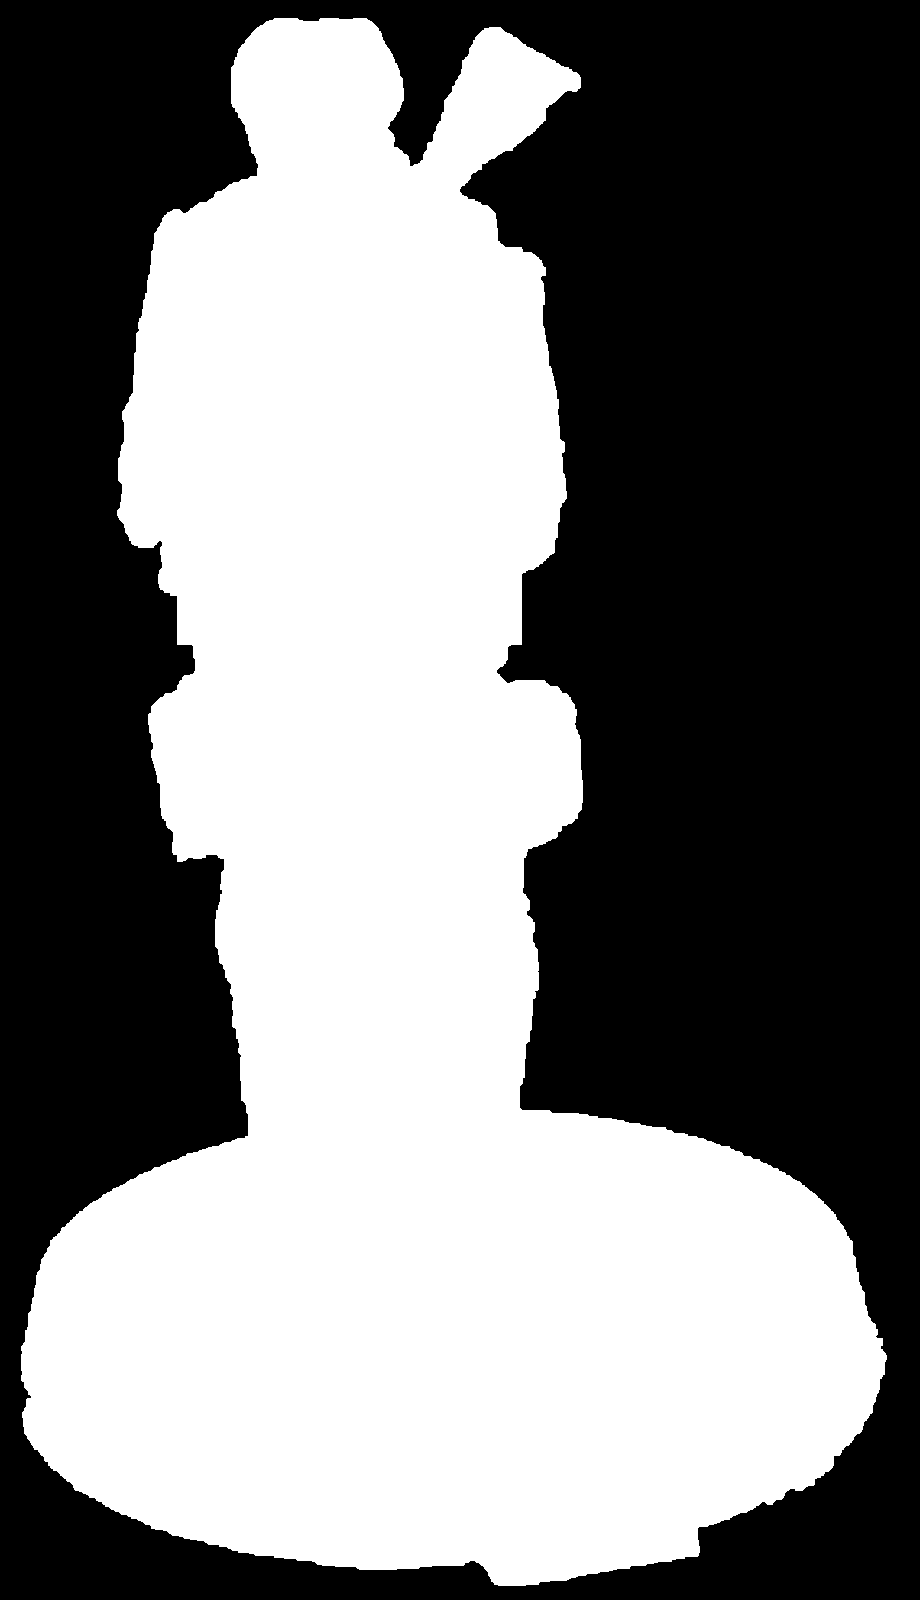
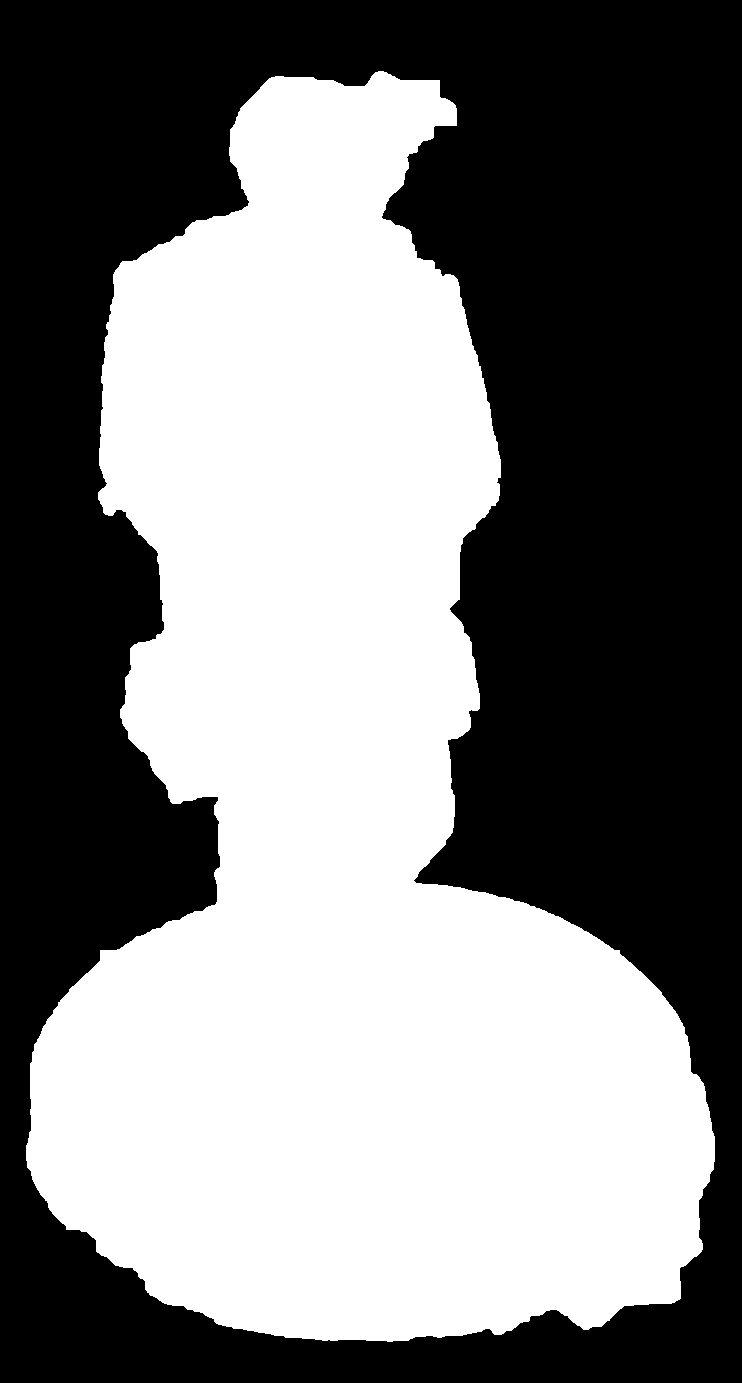
Flores: replace photo with Dan's new shot, re-map paints
Claude-Session: https://claude.ai/code/session_018xGy6bTQAa7MCQcV7PAPQL

diff --git a/tools/inputs/6-siege-flores/README.md b/tools/inputs/6-siege-flores/README.md
@@ -2,7 +2,7 @@ Inputs used to build Flores (kept so it can be re-run).
 
 python3 tools/process_mini.py --photo <original photo> \
   --paints tools/inputs/6-siege-flores/paints.json \
-  --name "Flores" --game "6 Siege" --crop 416,57,1620,2152 \
+  --name "Flores" --game "6 Siege" --crop 538,486,1280,1869 \
   --fg-mask tools/inputs/6-siege-flores/fg_mask.png
 
 Paint colours: published Speedpaint 2.0 values (lexmechanic.com/paints/speedpaint-2).
